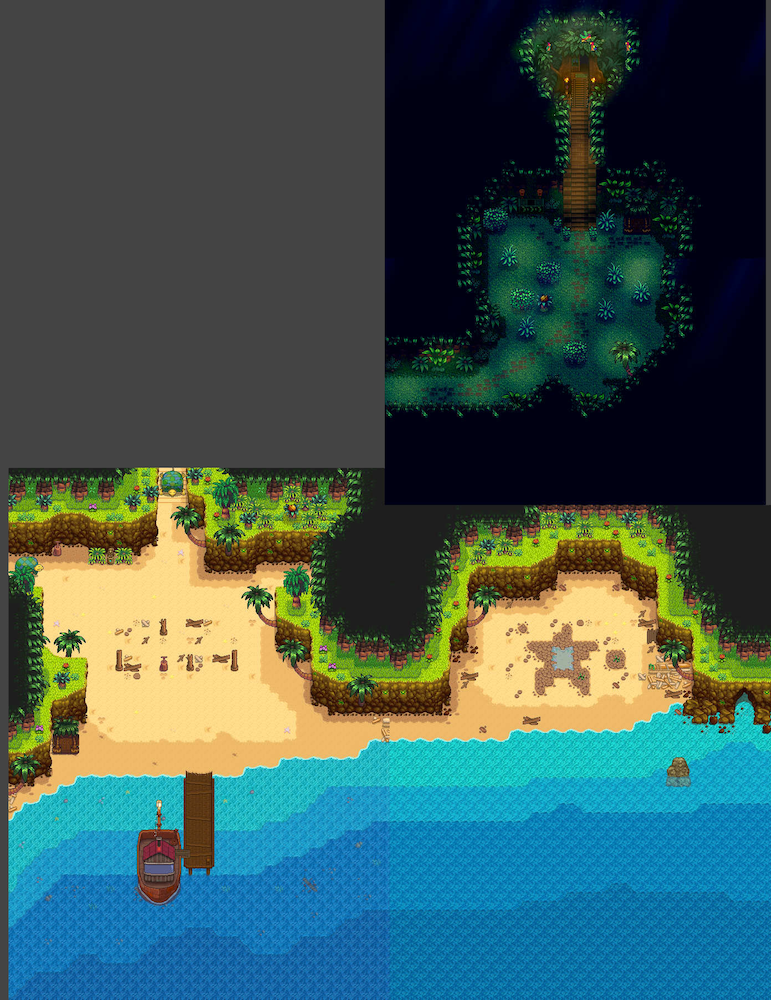
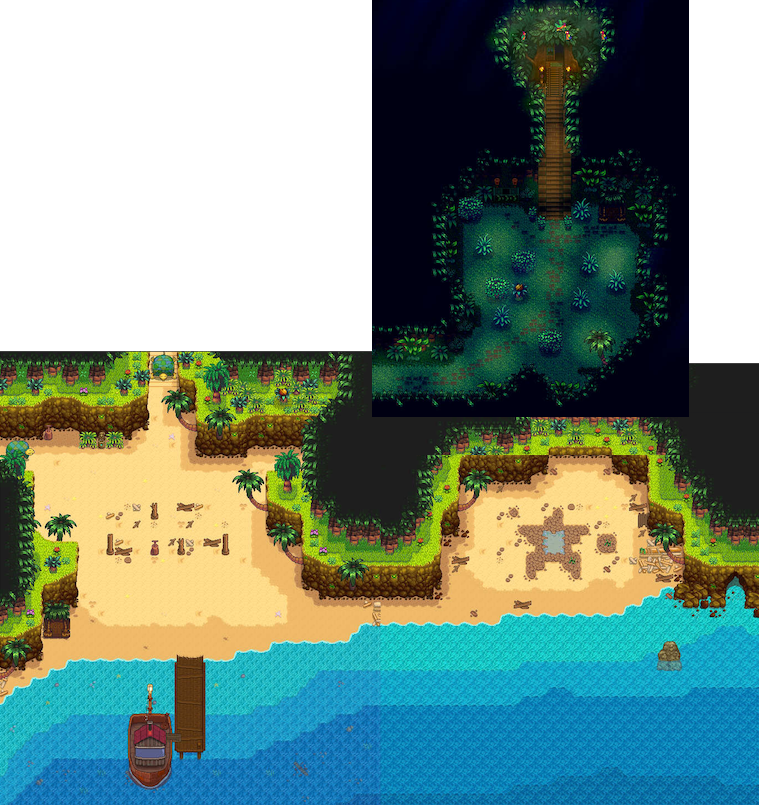
imgs and move boat

diff --git a/data/games/stardew.js b/data/games/stardew.js
@@ -46,18 +46,7 @@ let stardew = {
             joja_mart_entry: { x: 708, y: 365 },
             community_entry: { x: 388, y: 135, name:"Community Center Entry" },
             smithy_entry: { x: 699, y: 593 },
-            museum_entry: { x: 746, y: 648 },
-            //8.xER
-            //town_bus
-            //town_forest
-            //town_mountain
-            //town_beach
-            //town_tide
-            //town_mount_short_west
-            //town_mount_short_east
-            //minecart_town_to_q
-            //minecart_town_to_bus
-            //minecart_town_to_mine
+            museum_entry: { x: 746, y: 648 }
         },
 
         town_indoors: {
@@ -92,39 +81,6 @@ let stardew = {
             farmcave_exit: { x: 101, y: 308, name: "Farmcave" },
             tunnel_entry: { x: 244, y: 247, name: "Bus Tunnel Entry" },
             tunnel_exit: { x: 244, y: 194, name: "Bus Tunnel" }
-            //8.xER
-            //cellar_entry: { x: 244, y: 194, name: "Cellar Entry"}
-            //cellar_exit: { x: 244, y: 194, name: "Cellar"}
-            //farm_backwoods: { x: 244, y: 194}
-            //farm_bus: { x: 244, y: 194}
-            //farm_forest: { x: 244, y: 194}
-            //farm_greenhouse_entry: { x: 244, y: 194, name: "Greenhouse Entry"}
-            //farm_greenhouse_exit: { x: 244, y: 194, name: "Greenhouse"}
-            //backwood_farm: { x: 244, y: 194, name: "Backwood Top"}
-            //backwood_mountain: { x: 244, y: 194, name: "Backwood Top"}
-            //backwood_bus: { x: 244, y: 194, name: "Backwood Road"}
-            //bus_farm: { x: 244, y: 194, name: "Bus Stop"}
-            //bus_town: { x: 244, y: 194, name: "Bus Stop"}
-            //bus_desert: { x: 244, y: 194, name: "Bus Stop"}
-            //bus_road: { x: 244, y: 194, name: "Bus Stop"}
-            //minecart_bus_to_q: { x: 244, y: 194, name: "Bus"}
-            //minecart_bus_to_town: { x: 244, y: 194, name: "Bus"}
-            //minecart_bus_to_mine: { x: 244, y: 194, name: "Bus"}
-            //farm_totem_exit: { x: 244, y: 194}
-            //farm_obelisk_exit: { x: 244, y: 194}
-            //return_scepter_exit: { x: 244, y: 194}
-
-            //move to new map
-            //earth_obelisk: { x: 244, y: 194}
-            //water_obelisk: { x: 244, y: 194}
-            //desert_obelisk: { x: 244, y: 194}
-            //island_obelisk: { x: 244, y: 194}
-            //return_scepter
-            //farm_totem
-            //mountain_totem
-            //beach_totem
-            //desert_totem
-            //island_totem
         },
         
         mountain: {
@@ -136,22 +92,7 @@ let stardew = {
             guild_entry: { x: 1199, y: 817, name: "Guild Entry" },
             quarry_mine_entry: { x: 1637, y: 957, name: "Quarry" },
             spa_entry: { x: 196, y: 569, name: "Railroad" },
-            swamp_entry: { x: 1094, y: 119, name: "Swamp Entry" }
-            //8.xER (new tab for minecarts? or swamp?)
-            //mountain_backwood
-            //mountain_rail
-            //mountain_town
-            //mountain_shortcut_west
-            //mountain_shortcut_east
-            //minecart_q_to_bus
-            //minecart_q_to_town
-            //minecart_q_to_mine
-            //minecart_mine_to_q
-            //minecart_mine_to_bus
-            //minecart_mine_to_town
-            //rail_mountain
-            //mountain_totem_exit
-            //earth_obelisk_exit
+            swamp_entry: { x: 1094, y: 119, name: "Railroad" }
         },
 
         mountain_indoors: {
@@ -175,10 +116,10 @@ let stardew = {
             bath_women: {x: 498, y: 510,name:"Public Bath", text_offset: { x: 0, y: +.17 }},
             bath_men: {x: 1080, y: 510,name:"Public Bath"},
             change_men_exit: {x: 860, y: 510, name: "Mens Lockers", text_offset: { x: 0, y: .17 }},
-            bathhouse_men_entry: {x: 350, y: 300,name:"Bath Hall", text_offset: { x: 0, y: -.17 }},
+            bathhouse_men_entry: {x: 350, y: 300,name:"Bath Hall"},
             change_men_to_spa: {x: 1080, y: 423,name:"Mens Lockers"},
             change_women_exit: {x: 720, y: 510, name: "Womens Lockers"},
-            bathhouse_women_entry: {x: 200, y: 300,name:"Bath Hall", text_offset: { x: 0, y: 0.03 }},
+            bathhouse_women_entry: {x: 200, y: 300,name:"Bath Hall", text_offset: { x: -.12}},
             change_women_to_spa: {x: 498, y: 423,name:"Womens Lockers"}
         },
 
@@ -188,13 +129,7 @@ let stardew = {
             elliot_exit: { x: 1172, y: 152, name: "Elliot" },
             fishshop_exit: { x: 713, y: 702, name: "Fishshop" },
             fishshop_to_boat: { x: 783, y: 662, name: "Fishshop Backdoor", text_offset:{x:0,y:-0.05} },
-            //8.xER
-            //beach_town
-            //beach_short_forest
-            //beach_short_tide
-            //boat_ticket
-            //water_obelisk_exit
-            //beach_totem_exit
+            Boat_tunnel: { x: 968, y: 785, name: "Boat", location: "island_south" },
         },
         
 
@@ -204,13 +139,7 @@ let stardew = {
             marnie_entry: { x: 956, y: 149 },
             leah_entry: { x: 1114, y: 326, name: "Leah Entry" },
             sewer_entry: { x: 1006, y: 1046, name: "Forest Sewer Entry" },
-            mastery_entry: { x: 1082, y: 754, name: "Mastery Entry" },
-            //8.xER
-            //forest_farm
-            //forest_town
-            //forest_short_beach
-            //forest_secret
-            //secret_forest
+            mastery_entry: { x: 1082, y: 754, name: "Mastery Entry" }
         },
 
         forest_indoors: {
@@ -220,7 +149,7 @@ let stardew = {
             wizard_swamp: { x: 170, y: 490, name: "Basement to Swamp" },
             marnie_exit: { x: 956, y: 149, name: "Marnie"},
             leah_exit: { x: 1114, y: 326, name: "Leah" },
-            mastery_exit: { x: 1082, y: 754, name: "Masteries" },
+            mastery_exit: { x: 1082, y: 754, name: "Masteries" }
         },	
 
         island_west: {
@@ -234,67 +163,26 @@ let stardew = {
             shipwreck_exit: { x: 619, y: 842,name:"Shipwreck" },
             crystal_exit: { x: 591, y: 23,name:"Simon Says"},
             walnut_room_exit: { x: 194, y: 151,name:"Qi's room"}
-            //8.xER
-            //isle_west_south
-            //parrot_farm_volcano
-
-            //parrot_farm_dig
-            //parrot_farm_jungle
-            //parrot_farm_dock
-
-            //farm_obelisk
         },	
     
         island_north: {
-            snail_cave_entry: { x: 201, y: 430, name: "Dig Site" },
+            snail_cave_entry: { x: 201, y: 430, name: "Dig Site", text_offset: { x: 0.04, y: 0 } },
             fieldoffice_entry: { x: 426, y: 422 },
             volcano_entry: { x: 374, y: 195 },
             fieldoffice_exit: { x: 424, y: 354, name: "Snail Field Office" },
-            snail_cave_exit: { x: 201, y: 354, name: "Island North Cave" },
+            snail_cave_exit: { x: 201, y: 354, name: "Island North Cave", text_offset: { x: 0.04, y: 0 } },
             volcano_exit: { x: 377, y: 110, name: "Volcano" },
             volcano_exit_river: { x: 114, y: 196, name: "Volcano River" },
-            volcano_secret_beach: { x: 107, y: 273, name: "Volcano Beach" },
-            //8.xER
-            //isle_north_south
-            //isle_north_south_nut
-            //parrot_dig_volcano
-            //parrot_dig_farm
-            //parrot_dig_jungle
-            //parrot_dig_dock
-            //parrot_volcano_farm
-            //parrot_volcano_dig
-            //parrot_volcano_jungle
-            //parrot_volcano_dock
-            //volcano_f5_hole
-            //volcano_f5_hole_exit
+            volcano_secret_beach: { x: 107, y: 273, name: "Volcano Beach" }
         },									
        
         island_south: {
-            boat_tunnel: { x: 154, y: 888, name:"Boat Repair" },
-            pirate_cove_entry: { x: 690, y: 663, name:"South Island Alcove" },
-            pirate_cove_exit: { x: 686, y: 598, name: "Pirate Cove" },
-            islandhut_entry: { x: 567, y: 94 },
-            islandhut_exit: { x: 567, y: 37, name: "Island Treehouse" },
-            shrine_entry: { x: 677, y: 285 },
-            shrine_exit: { x: 677, y: 214, name: "Gembirds" },
-            //8.xER (change island south name)
-            //isle_south_west
-            //isle_south_north
-            //isle_south_north_nut
-            //isle_south_east
-            //isle_south_se
-            //parrot_dock_volcano
-            //parrot_dock_farm
-            //parrot_dock_dig
-            //parrot_dock_jungle
-            //isle_east_south
-            //parrot_dock_volcano
-            //parrot_dock_farm
-            //parrot_dock_dig
-            //parrot_dock_dock
-            //isle_sE_south
-            //island_obelisk_exit
-            //island_totem_exit
+            pirate_cove_entry: { x: 690, y: 582, name:"South Island Alcove" },
+            pirate_cove_exit: { x: 690, y: 540, name: "Pirate Cove" },
+            islandhut_entry: { x: 545, y: 68 },
+            islandhut_exit: { x: 545, y: 24, name: "Island Treehouse" },
+            shrine_entry: { x: 677, y: 256 },
+            shrine_exit: { x: 677, y: 214, name: "Gembirds" }
         },
         
         desert: {
@@ -303,10 +191,7 @@ let stardew = {
             oasis_exit: { x: 129, y: 1109, name: "Oasis" },
             casino_entry: { x: 253, y: 1050, name: "Casino Entry" },
             casino_exit: { x: 251, y: 972, name: "Casino" },
-            skull_cavern_exit: { x: 188, y: 60, name: "Skull Cavern" },
-            //8.xER
-            //desert_bus
-            //desert_obelisk_exit
+            skull_cavern_exit: { x: 188, y: 60, name: "Skull Cavern" }
         },
     },
 
